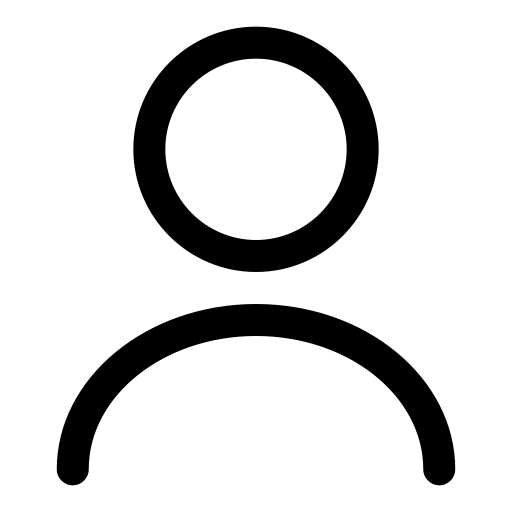
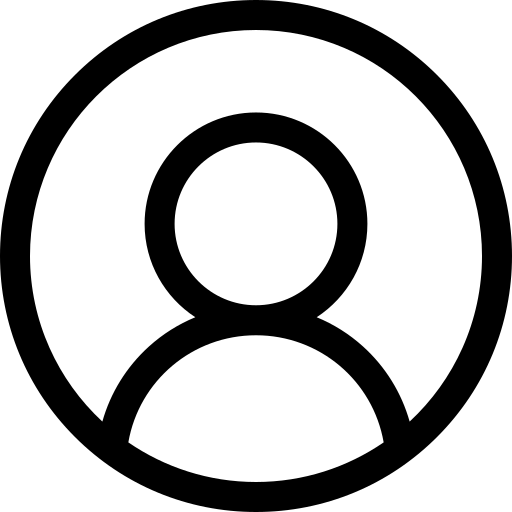
feat: implement like functionality with optimistic UI updates

diff --git a/src/components/LikeButton/index.jsx b/src/components/LikeButton/index.jsx
@@ -1,20 +1,33 @@
 import { Heart } from "lucide-react";
 import Interactions from "../Interactions";
-import { useState } from "react";
+import { useDispatch } from "react-redux";
+import { likePost } from "@/services/Posts";
+import { optimisticUpdateLikePost } from "@/features/posts/postSlice";
 
-const LikeButton = ({ count }) => {
-  const [isLiked, setIsLiked] = useState(false);
-  const handleLike = () => {
-    setIsLiked(true);
+const LikeButton = ({ postId, count, isLiked }) => {
+  const previousLikePost = isLiked;
+
+  const dispatch = useDispatch();
+  const handleLike = async () => {
+    dispatch(optimisticUpdateLikePost({ postId, isLiked }));
+    try {
+      await dispatch(likePost(postId)).unwrap();
+    } catch (error) {
+      dispatch(
+        optimisticUpdateLikePost({ postId, isLiked: !previousLikePost }),
+      );
+      console.log(error);
+    }
   };
   return (
     <Interactions
       count={count}
       Icon={Heart}
       onClick={handleLike}
+      isActive={isLiked}
+      activeClass="text-red-500"
       title="Bạn thích nội dung này ư? Bạn sẽ thích mê Threads."
       description="Hãy đăng ký để thích, trả lời và hơn thế nữa."
-      isLiked={isLiked}
     />
   );
 };

diff --git a/src/features/posts/postSlice.js b/src/features/posts/postSlice.js
@@ -13,8 +13,18 @@ const initialState = {
 const postsSlice = createSlice({
   name: "posts",
   initialState,
-  reducers: {},
+  reducers: {
+    optimisticUpdateLikePost: (state, action) => {
+      const { postId, isLiked } = action.payload;
+      const post = state.items.find((post) => post.id === postId);
+      if (post) {
+        post.likes_count += isLiked ? -1 : 1;
+        post.is_liked_by_auth = !isLiked;
+      }
+    },
+  },
   extraReducers: (builder) => {
+    // Get posts
     builder
       .addCase(getPosts.pending, (state) => {
         state.loading = true;
@@ -29,10 +39,15 @@ const postsSlice = createSlice({
           const isNewPost = state.items.some((p) => p.id === newPost.id);
           return !isNewPost;
         });
-
         state.items = [...state.items, ...newPosts];
+      })
+      .addCase(getPosts.rejected, (state, action) => {
+        state.loading = false;
+        state.error = action.payload.error;
       });
   },
 });
+
+export const { optimisticUpdateLikePost } = postsSlice.actions;
 
 export default postsSlice;

diff --git a/src/components/Interactions/index.jsx b/src/components/Interactions/index.jsx
@@ -1,13 +1,13 @@
 import AuthRequiredDialog from "@/components/AuthRequiredDialog";
 import { Button } from "@/components/ui/button";
 import { useCurrentUser } from "@/features/auth";
-import classNames from "classnames";
 
-const buttonClasses = `m-auto  border-none shadow-none`;
+const buttonClasses = `m-auto border-none shadow-none`;
 
 const Interactions = ({
   onClick,
-  isLiked,
+  isActive,
+  activeClass,
   count = 0,
   Icon,
   title,
@@ -35,11 +35,9 @@ const Interactions = ({
       <Button
         onClick={onClick}
         variant="outline"
-        className={classNames(buttonClasses, {
-          "text-red-500": isLiked,
-        })}
+        className={`${buttonClasses} ${isActive && activeClass}`}
       >
-        {Icon && <Icon className={`${isLiked && "fill-current"}`} />}
+        {Icon && <Icon className={`${isActive && "fill-current"}`} />}
         {count ? <span>{count}</span> : null}
       </Button>
     </div>

diff --git a/src/components/UserAvatar/index.jsx b/src/components/UserAvatar/index.jsx
@@ -4,15 +4,11 @@ import { Avatar, AvatarImage } from "../ui/avatar";
 const UserAvatar = ({ imgSize, className, src, Icon }) => {
   return (
     <div className="relative overflow-hidden">
-      <Avatar
-        className={classNames(
-          imgSize,
-          className,
-          "border-2 border-gray-300 bg-white shadow hover:scale-100",
-        )}
-      >
-        <AvatarImage src={src} />
-      </Avatar>
+      <div className="rounded-full shadow hover:scale-100">
+        <Avatar className={classNames(imgSize, className)}>
+          <AvatarImage src={src} />
+        </Avatar>
+      </div>
       {Icon && (
         <div className="absolute right-0 bottom-0 flex h-3 w-3 items-center justify-center rounded-full bg-black hover:scale-125">
           <Icon size={8} strokeWidth={2} color="white" />

diff --git a/src/components/Posts/components/PostCard/index.jsx b/src/components/Posts/components/PostCard/index.jsx
@@ -10,12 +10,14 @@ import useEmblaCarousel from "embla-carousel-react";
 const PostCard = ({ post }) => {
   const [emblaRef] = useEmblaCarousel();
   const {
+    id,
     content,
     user,
     replies_count,
     likes_count,
     media_urls,
     reposts_and_quotes_count,
+    is_liked_by_auth,
   } = post;
 
   return (
@@ -43,7 +45,11 @@ const PostCard = ({ post }) => {
           </div>
         </div>
         <div className="flex items-center justify-start">
-          <LikeButton count={likes_count} />
+          <LikeButton
+            postId={id}
+            count={likes_count}
+            isLiked={is_liked_by_auth}
+          />
           <CommentButton count={replies_count} />
           <RepostButton count={reposts_and_quotes_count} />
           <ShareButton />

diff --git a/src/components/Posts/index.jsx b/src/components/Posts/index.jsx
@@ -19,9 +19,7 @@ const Posts = ({ type }) => {
 
   const loading = useSelector(selectorLoadingPost);
   const pagination = useSelector(selectorPagination);
-
   const onEnd = useCallback(() => setPage((prevState) => prevState + 1), []);
-
   useInfiniteScroll({ lastElementRef, page, loading, pagination, onEnd });
 
   return (
@@ -31,7 +29,7 @@ const Posts = ({ type }) => {
           <div
             ref={lastElementRef}
             key={post.id}
-            className="flex w-[650px] flex-col items-start overflow-hidden border-t border-gray-300 p-3 first-of-type:border-t-0"
+            className="flex w-[650px] flex-col items-start overflow-hidden border-t border-gray-300 p-3"
           >
             <PostCard post={post} />
           </div>

diff --git a/src/components/Posts/components/CreatePost/index.jsx b/src/components/Posts/components/CreatePost/index.jsx
@@ -14,10 +14,8 @@ import defaultImageUser from "@/assets/image/defaultImageUser.png";
 
 const CreatePost = () => {
   const currentUser = useCurrentUser();
-  console.log(currentUser);
-
   return (
-    <div className="flex items-center justify-between gap-2 border-b border-gray-300 p-4">
+    <div className="flex items-center justify-between gap-2 p-4">
       <div className="flex w-full items-center">
         <Link to={"/profile"}>
           <UserAvatar

diff --git a/src/pages/Home/components/HomeTabs/index.jsx b/src/pages/Home/components/HomeTabs/index.jsx
@@ -18,7 +18,7 @@ const HomeTabs = ({ children, currentTab, handleValueChange }) => {
       </div>
       <TabsContent
         value={currentTab}
-        className="relative z-10 mt-0 min-w-[640px] overflow-y-auto rounded-b-3xl border-x border-b border-gray-300 bg-white"
+        className="relative z-10 mt-0 min-w-[640px] overflow-y-auto border-x border-b border-gray-300 bg-white"
       >
         <div>{children}</div>
       </TabsContent>

diff --git a/src/layouts/DefaultLayout/index.jsx b/src/layouts/DefaultLayout/index.jsx
@@ -26,9 +26,7 @@ const DefaultLayout = () => {
                 currentTab={currentTab}
                 handleValueChange={handleValueChange}
               >
-                <div className="overflow-visible bg-transparent!">
-                  <Outlet />
-                </div>
+                <Outlet />
               </HomeTabs>
             ) : (
               <div>

diff --git a/src/services/Posts/postService.js b/src/services/Posts/postService.js
@@ -10,3 +10,15 @@ export const getPosts = createAsyncThunk(
     return response;
   },
 );
+
+export const likePost = createAsyncThunk(
+  "posts/like",
+  async (postId, { rejectWithValue }) => {
+    try {
+      const response = await http.post(`/posts/${postId}/like`);
+      return response;
+    } catch (error) {
+      return rejectWithValue(error);
+    }
+  },
+);
